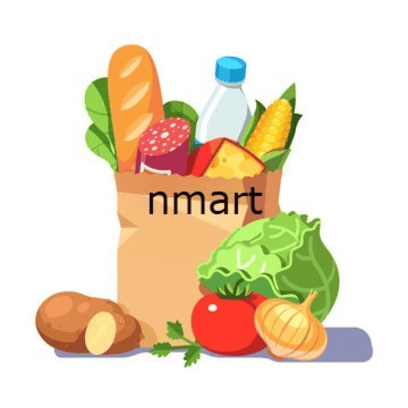
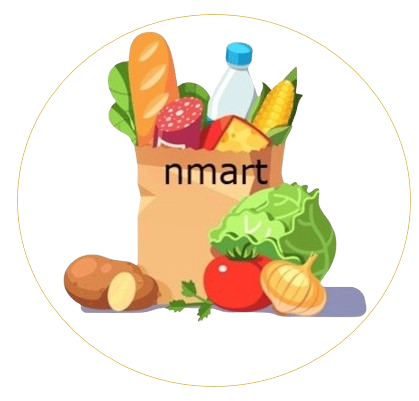
new

diff --git a/client/src/components/Header.jsx b/client/src/components/Header.jsx
@@ -66,8 +66,8 @@ const Header = () => {
                                     <Link to={"/"} className='h-full flex justify-center items-center'>
                                         <img 
                                             src={logo}
-                                            width={170}
-                                            height={60}
+                                            width={150}
+                                            height={100}
                                             alt='logo'
                                             className='hidden lg:block'
                                         />

diff --git a/server/index.js b/server/index.js
@@ -19,7 +19,7 @@ const app = express();
 
 // CORS configuration
 app.use(cors({
-  origin: 'https://n-mart-olive.vercel.app', 
+  origin: 'http://localhost:5173', 
   methods: ['GET', 'POST', 'PUT', 'DELETE'],
   credentials: true,
 }));
